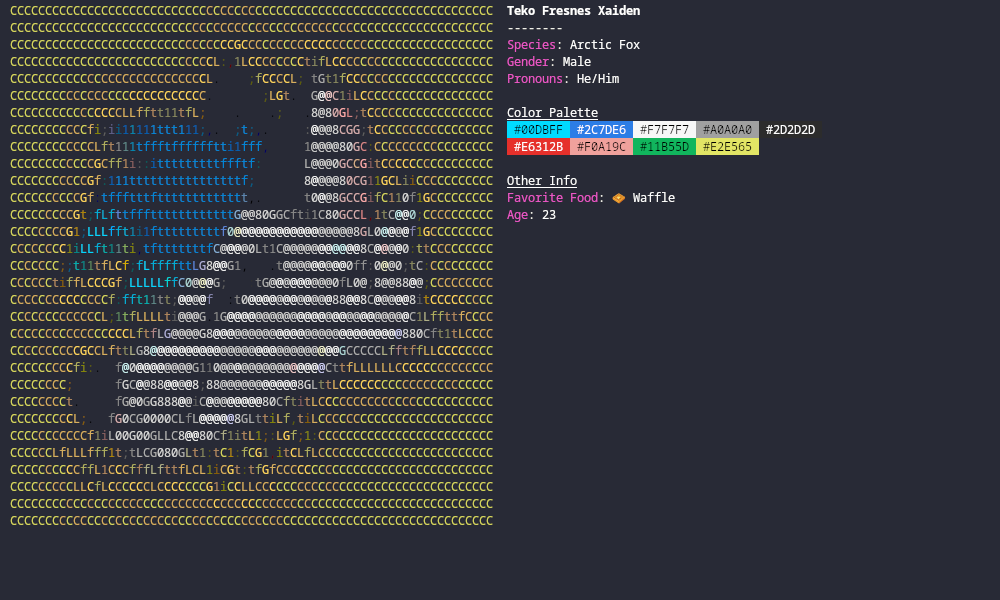
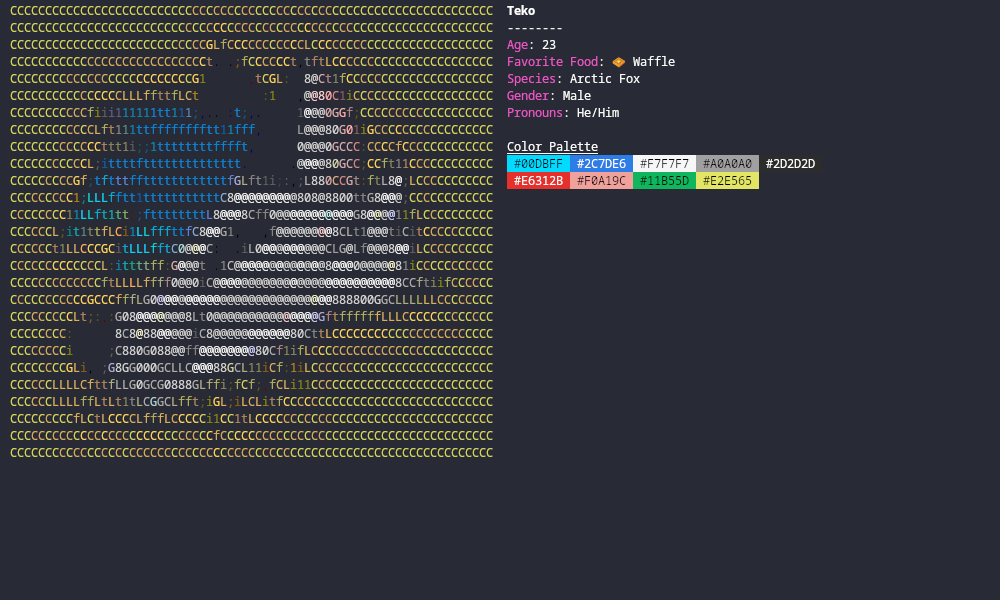
Updated README

diff --git a/README.md b/README.md
@@ -1,5 +1,53 @@
 # Fursona TUI
 
 ✨Show info about your fursona right in your terminal✨
-
 ![](assets/Screenshot.png)
+
+## Installation
+
+Install using go
+
+```sh
+go get github.com/tekofx/fursona-tui
+```
+
+## Configuration
+
+- In `$HOME/.config/fursona-tui` place a picture (.JPG or .PNG).
+- Run the app `fursona-tui`. This will generate a new settings.json.
+
+### Customize
+
+The data shown can be customized in the JSON file `$HOME/.config/fursona-tui/settings.json`.
+
+```json
+{
+  "name": "Name",
+  "palette": ["#FFFFFF", "#000000"],
+  "data": {
+    "Gender": "Gender",
+    "Pronouns": "Pronouns",
+    "Species": "Species"
+  }
+}
+```
+
+The fields in data can be any pair of strings.
+
+# Example
+
+![](assets/Screenshot2.png)
+
+## Config
+
+```json
+{
+  "name": "Mr Meow",
+  "palette": ["#FC9B05", "#FCF2B7", "#FCD36A", "#FCE28E", "#FC9C54"],
+  "data": {
+    "📍Location": "Europe",
+    "Pronouns": "🐱🐈",
+    "Favorite Food": "Tuna 🐟"
+  }
+}
+```
